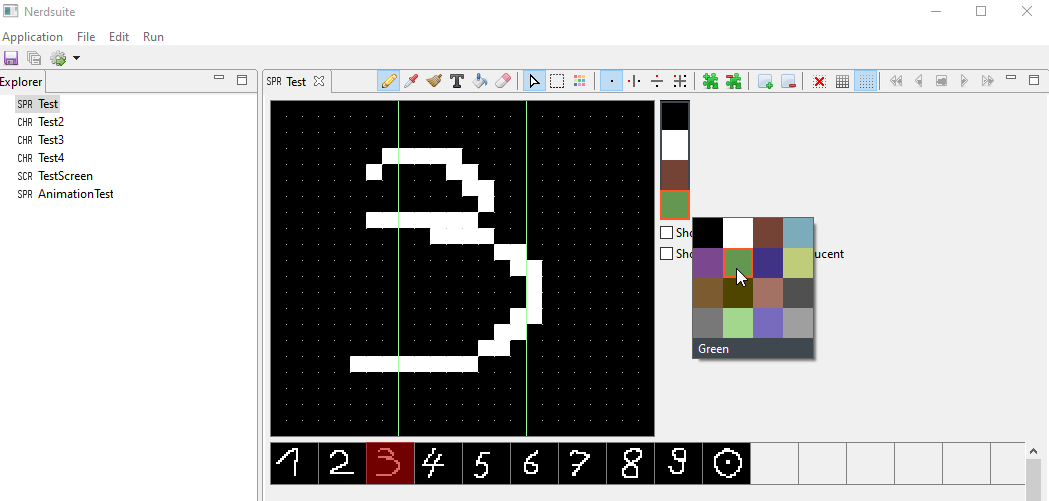
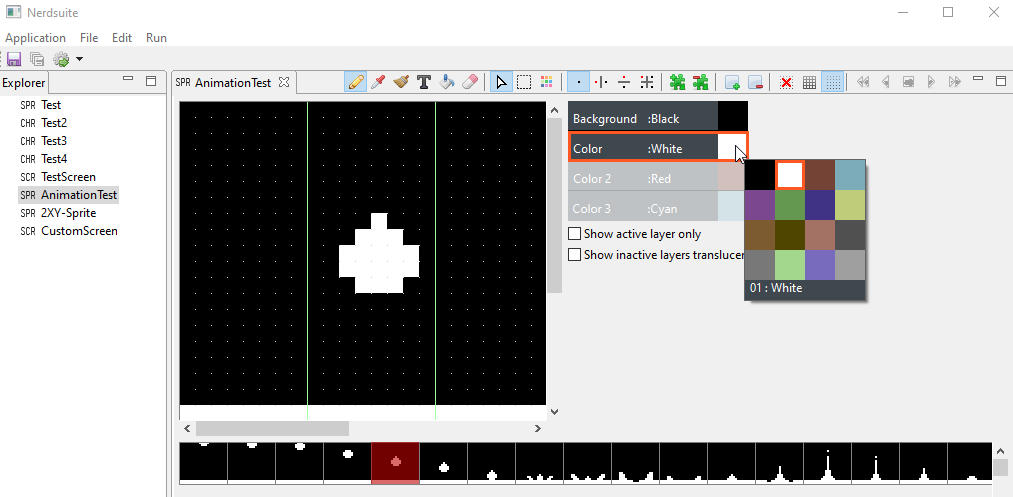
update color chooser

diff --git a/de.drazil.nerdsuite/src/de/drazil/nerdsuite/widget/ColorPaletteChooser.java b/de.drazil.nerdsuite/src/de/drazil/nerdsuite/widget/ColorPaletteChooser.java
@@ -3,8 +3,6 @@ package de.drazil.nerdsuite.widget;
 import java.util.ArrayList;
 import java.util.List;
 
-import org.eclipse.swt.events.FocusEvent;
-import org.eclipse.swt.events.FocusListener;
 import org.eclipse.swt.events.PaintEvent;
 import org.eclipse.swt.events.PaintListener;
 import org.eclipse.swt.graphics.Point;
@@ -35,7 +33,7 @@ public class ColorPaletteChooser extends BaseWidget implements PaintListener {
 		setPlatformColors(platformColorList);
 		colorSelectionListener = new ArrayList<IColorSelectionListener>();
 		addPaintListener(this);
-		
+
 	}
 
 	public void setPlatformColors(List<PlatformColor> platformColorList) {
@@ -72,8 +70,7 @@ public class ColorPaletteChooser extends BaseWidget implements PaintListener {
 		e.gc.setBackground(Constants.DARK_GREY);
 		e.gc.fillRectangle(0, height, width, 20);
 		e.gc.setForeground(Constants.WHITE);
-		e.gc.drawString(String.format("%02X : %s", colorIndex, platformColorList.get(colorIndex).getName()), 5,
-				height + 3);
+		e.gc.drawString(String.format("%02X : %s", colorIndex, platformColorList.get(colorIndex).getName()), 5, height);
 	}
 
 	@Override
@@ -106,8 +103,6 @@ public class ColorPaletteChooser extends BaseWidget implements PaintListener {
 		computeCursorPosition(x, y);
 		redraw();
 	}
-
-	
 
 	private void close() {
 		Object o = getParent().getParent();
